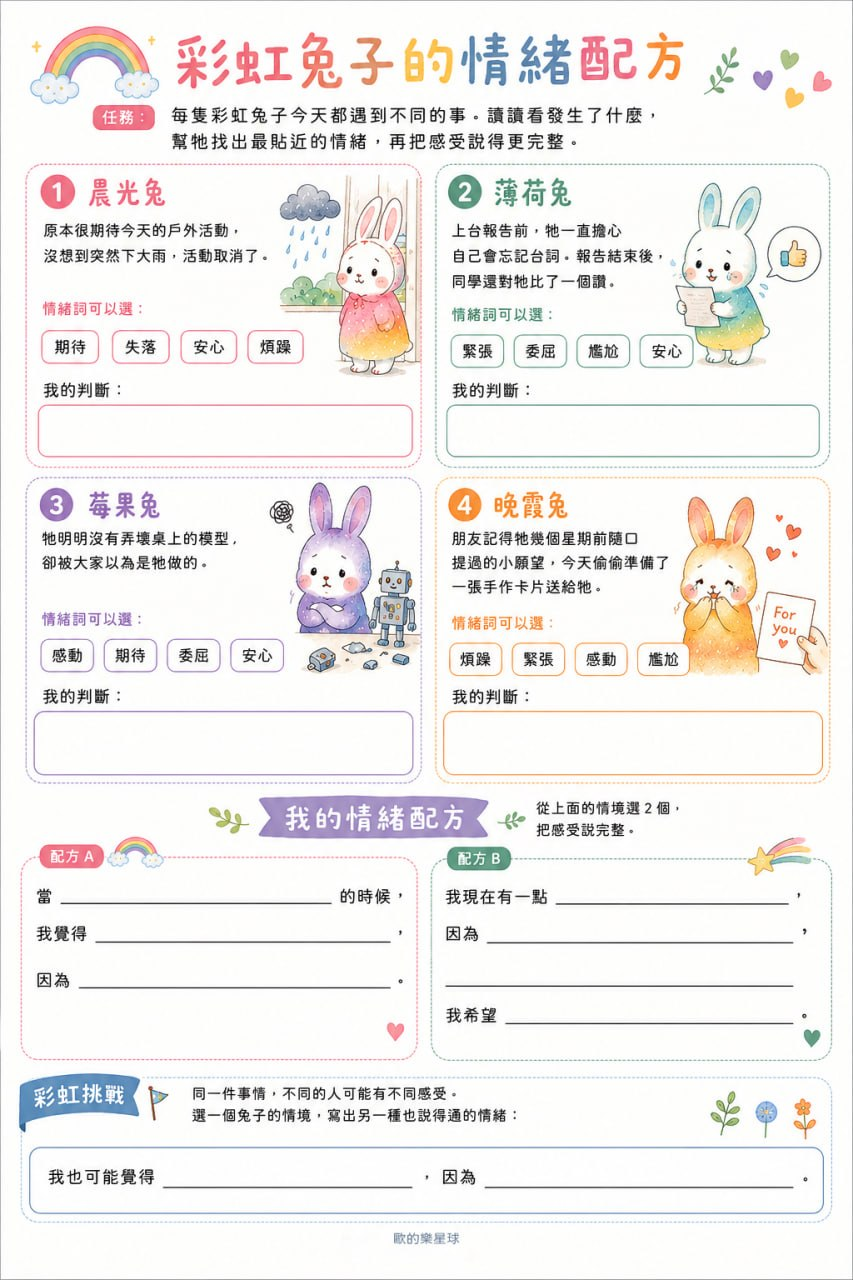
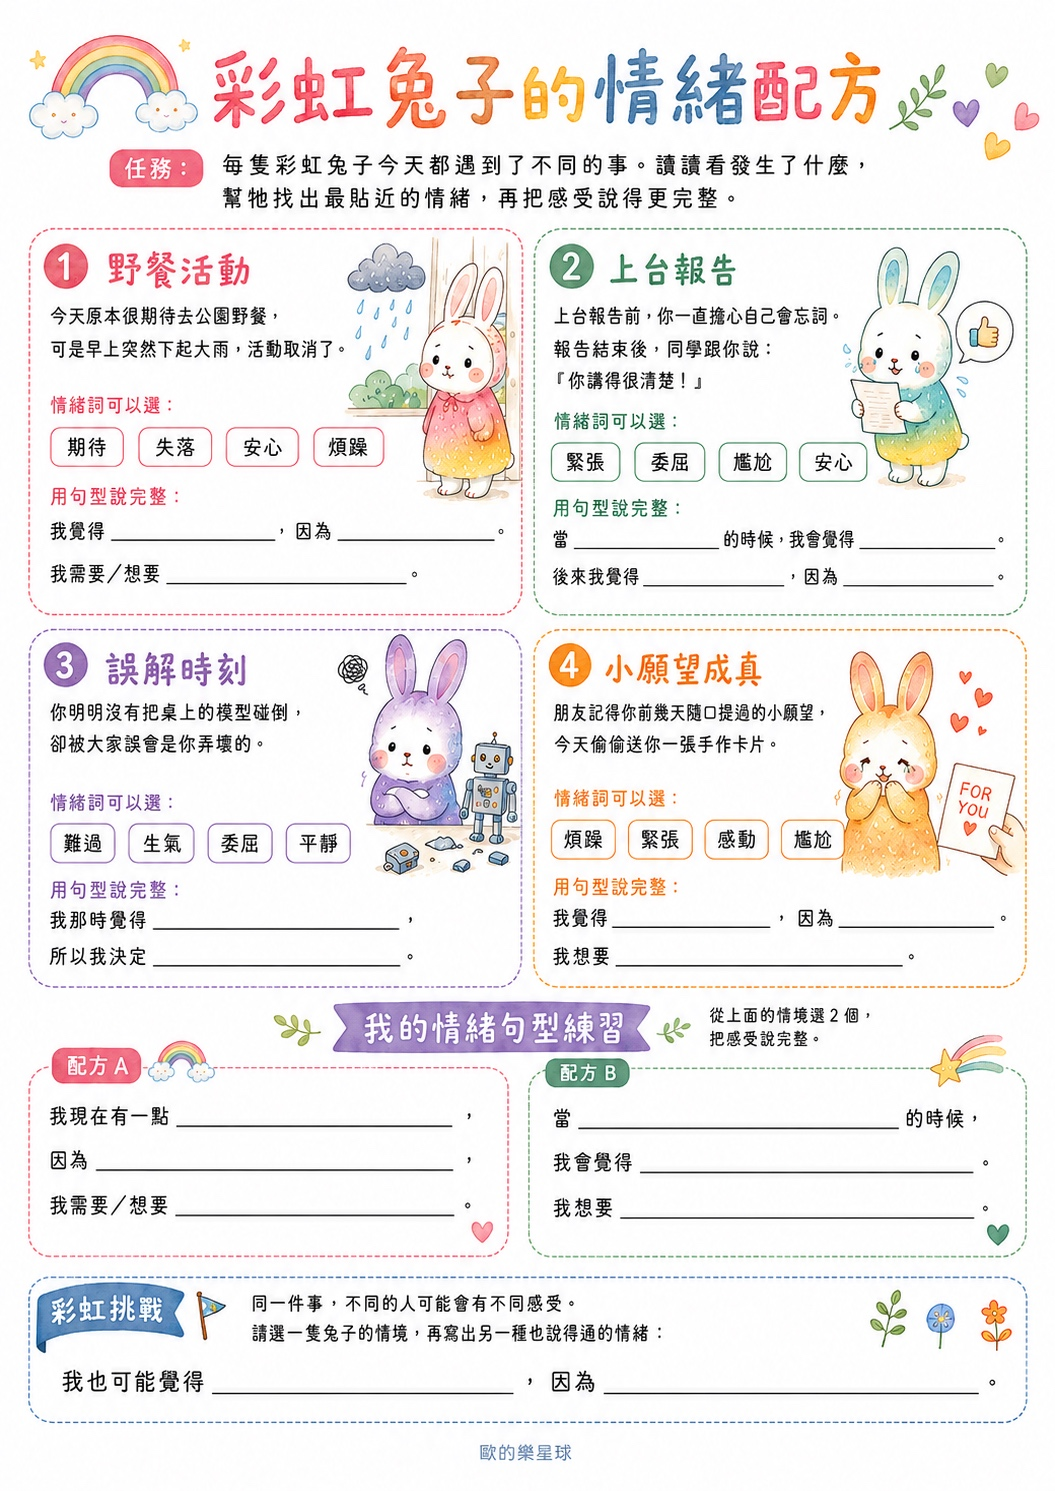
Update Rainbow Rabbit worksheet previews and PDF links

diff --git a/index.html b/index.html
@@ -302,14 +302,14 @@
         <div class="worksheet-grid">
           <article class="worksheet-card">
             <div class="worksheet-preview">
-              <a href="assets/rainbow-rabbit-emotion-recipe-zh.jpg?v=f6ac978" target="_blank" rel="noopener noreferrer" title="點擊檢視《彩虹兔子的情緒配方》中文版情緒學習單大圖">
+              <a href="https://sidonie.ca/img/Rainbow-Rabbit-Emotion-Mission-ch2.pdf" target="_blank" rel="noopener noreferrer" title="開啟《彩虹兔子的情緒配方》中文版 PDF 情緒學習單">
                 <img src="assets/rainbow-rabbit-emotion-recipe-zh.jpg?v=f6ac978" alt="《彩虹兔子的情緒配方》中文版情緒學習單預覽圖">
               </a>
             </div>
             <div class="worksheet-info">
               <h3>《彩虹兔子的情緒配方》中文版</h3>
               <p>從 4 個彩虹兔子情境找出情緒線索，選出最貼近的感受，再完成自己的情緒配方與彩虹挑戰。</p>
-              <a class="download-btn" href="assets/rainbow-rabbit-emotion-recipe-zh.pdf" download="彩虹兔子的情緒配方-中文版.pdf" target="_blank" aria-label="下載《彩虹兔子的情緒配方》中文版 PDF 情緒學習單">
+              <a class="download-btn" href="https://sidonie.ca/img/Rainbow-Rabbit-Emotion-Mission-ch2.pdf" download="Rainbow-Rabbit-Emotion-Mission-ch2.pdf" target="_blank" aria-label="下載《彩虹兔子的情緒配方》中文版 PDF 情緒學習單">
                 下載《彩虹兔子的情緒配方》中文版學習單
               </a>
             </div>
@@ -317,14 +317,14 @@
 
           <article class="worksheet-card">
             <div class="worksheet-preview">
-              <a href="assets/rainbow-rabbit-emotion-mission-en.jpg?v=f6ac978" target="_blank" rel="noopener noreferrer" title="點擊檢視《Rainbow Rabbit Emotion Mission》英文版情緒學習單大圖">
+              <a href="https://sidonie.ca/img/Rainbow-Rabbit-Emotion-Mission.pdf" target="_blank" rel="noopener noreferrer" title="開啟《Rainbow Rabbit Emotion Mission》英文版 PDF 情緒學習單">
                 <img src="assets/rainbow-rabbit-emotion-mission-en.jpg?v=f6ac978" alt="《Rainbow Rabbit Emotion Mission》英文版情緒學習單預覽圖">
               </a>
             </div>
             <div class="worksheet-info">
               <h3>《Rainbow Rabbit Emotion Mission》英文版</h3>
               <p>透過 6 個生活情境練習情緒詞彙，搭配 Emotion Word Bank，完成 I feel、because、I need／want 的完整句子。</p>
-              <a class="download-btn" href="assets/rainbow-rabbit-emotion-mission-en.pdf" download="Rainbow-Rabbit-Emotion-Mission-英文版.pdf" target="_blank" aria-label="下載《Rainbow Rabbit Emotion Mission》英文版 PDF 情緒學習單">
+              <a class="download-btn" href="https://sidonie.ca/img/Rainbow-Rabbit-Emotion-Mission.pdf" download="Rainbow-Rabbit-Emotion-Mission.pdf" target="_blank" aria-label="下載《Rainbow Rabbit Emotion Mission》英文版 PDF 情緒學習單">
                 下載《Rainbow Rabbit Emotion Mission》英文版學習單
               </a>
             </div>
